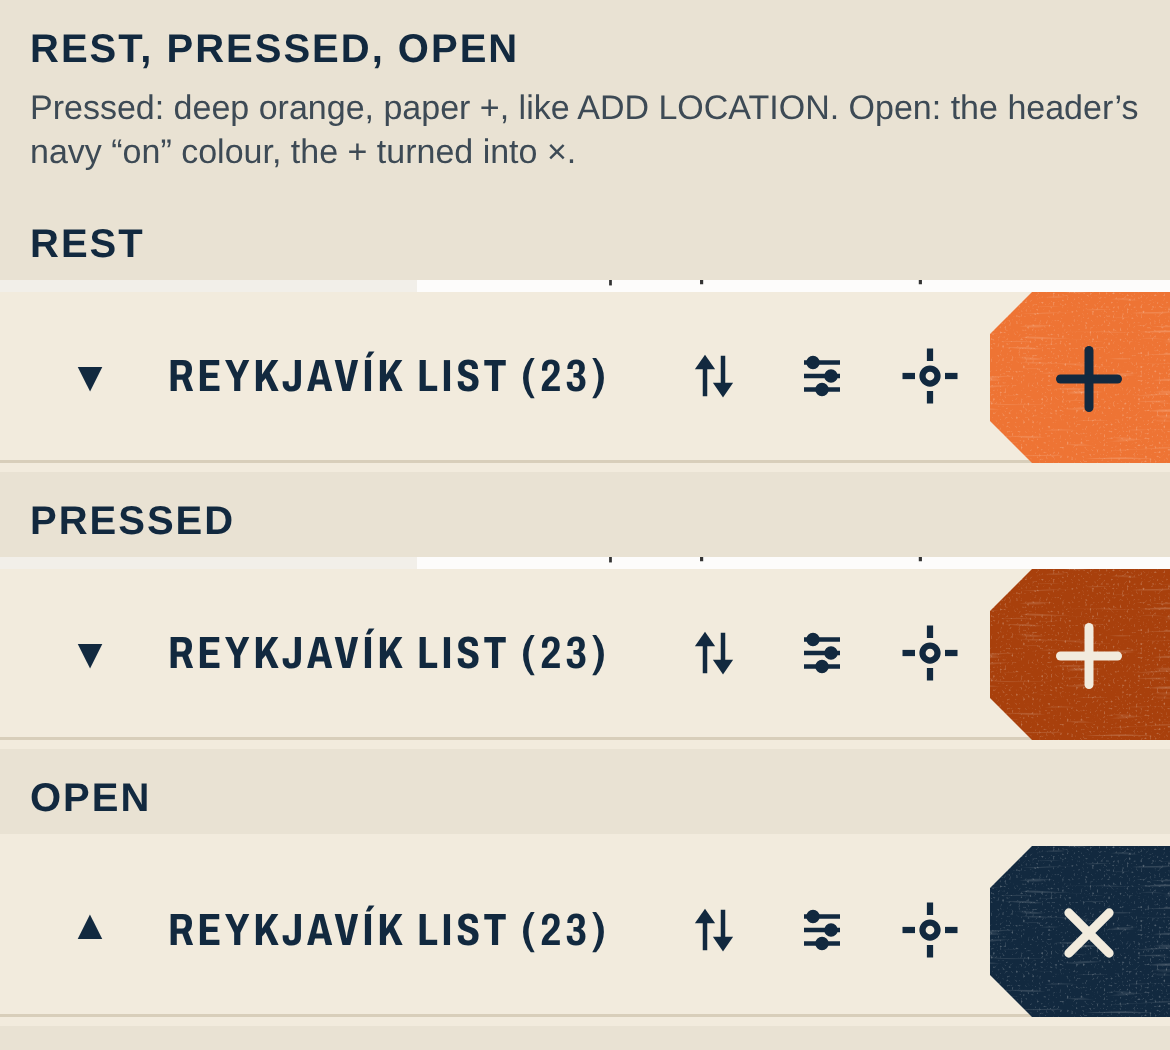
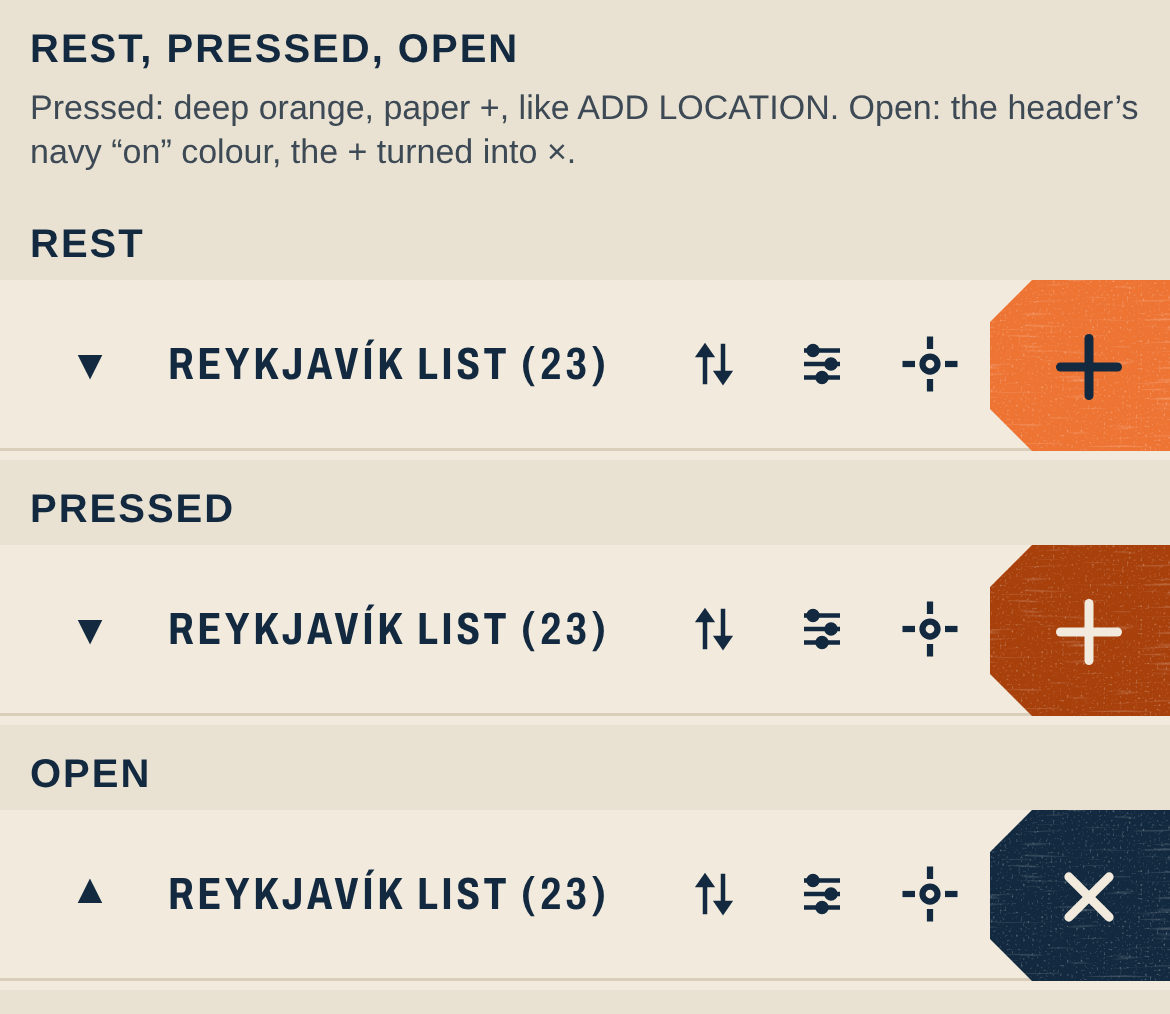
+ placement: R7-A4 re-cropped; round 7 ready

diff --git a/design/add-button-placement/concepts/compose-r7.js b/design/add-button-placement/concepts/compose-r7.js
@@ -50,7 +50,7 @@ const pages = {
      <div class="row" style="padding:0 30px;gap:16px">${['a7-none', 'a7-hole', 'a7-patch'].map(v => col('', crop1(A7 + v + '-1x.png', 270, 534, 390, 608, 2.95), 354)).join('')}</div>
      <div class="cost"><b>No hole:</b> the two cut corners already say “tag”. <span class="kill"><b>Hole:</b> a dot beside the locate icon. <b>Hole + patch:</b> a little switch knob, a fourth control.</span></div>`,
   'stub/R7-A4-states-3x.png': `${cap('Rest, pressed, open', 'Pressed: deep orange, paper +, like ADD LOCATION. Open: the header’s navy “on” colour, the + turned into ×.')}
-     ${cap('Rest', '')}${band3(A7 + 'a7-none-3x.png', 540, 604)}${cap('Pressed', '')}${band3(A7 + 'a7-pressed-3x.png', 540, 604)}${cap('Open', '')}${band3(A7 + 'a7-open844-3x.png', 780, 844)}<div class="gap"></div>`,
+     ${cap('Rest', '')}${band3(A7 + 'a7-none-3x.png', 544, 604)}${cap('Pressed', '')}${band3(A7 + 'a7-pressed-3x.png', 544, 604)}${cap('Open', '')}${band3(A7 + 'a7-open844-3x.png', 784, 844)}<div class="gap"></div>`,
   'stub/R7-A5-tag-open-3x.png': `${cap('A place’s tag open', 'The same cut as the tag above it: the tag you add with, and the tags your places open into. The place’s tag stays the main thing. Right: a starred place (its band is orange too; the + keeps the header tag reading as add).')}
      ${pair(A7 + 'a7-tag-plain-3x.png', 'A place', A7 + 'a7-tag-starred-3x.png', 'A starred place')}<div class="gap"></div>`,
   'stub/R7-A6-adding-3x.png': `${cap('Tap +', 'The list drops and the tag rides down with it as a navy ×. ADD LOCATION sits just above.')}${img(A7 + 'a7-open844-3x.png', 'width:1170px')}`,
